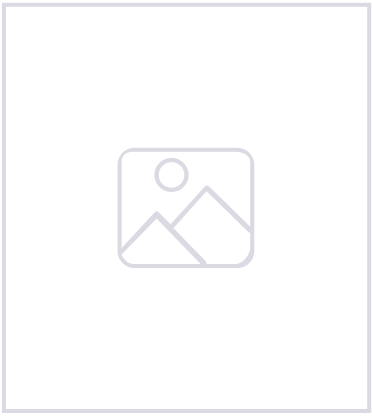
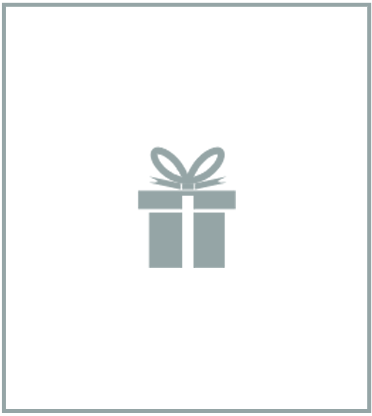
Update Home View & This or That View with high quality images as well as updated the in app browser within the wishlist view
Overall, wishlist tabstrip icon is updated to match related tabstrip icons.

Home View has a new icon (house) which closely represent the starting point of the application.

THis or That View has high resolution version of the add gift item and added item.

Wish List View's Themeable in App Browser now has a close, refresh and (follower's) notification button.

Changed region(s): [[0.0, 0.0, 1.0, 1.0], [0.2957, 0.3438, 0.6801, 0.6562]]

diff --git a/src/mobile/www/app/views/wishlist/wishlist.js b/src/mobile/www/app/views/wishlist/wishlist.js
@@ -196,6 +196,7 @@ function afterWishlistRetailersViewShow(e) {
     kendo.destroy(".fa-shopping-cart");
     $(".fa-shopping-cart").kendoTouch({
         tap: function (evt) {
+            var ref;
             try {
                 /*var ref = window.open('http://www.bestbuy.com/site/disney-interactive-disney-infinity-figure-sorcerers-apprentice-mickey-multi/3650039.p?id=1219092665944&skuId=3650039', '_blank', 'location=no');
                 ref.addEventListener("exit", function(){
@@ -211,7 +212,7 @@ function afterWishlistRetailersViewShow(e) {
                         alert("Are you sure?");
                     }
                 });*/
-                cordova.ThemeableBrowser.open('http://www.bestbuy.com/site/disney-interactive-disney-infinity-figure-sorcerers-apprentice-mickey-multi/3650039.p?id=1219092665944&skuId=3650039', '_blank', {
+                ref = cordova.ThemeableBrowser.open('http://www.bestbuy.com/site/disney-interactive-disney-infinity-figure-sorcerers-apprentice-mickey-multi/3650039.p?id=1219092665944&skuId=3650039', '_blank', {
                     statusbar: {
                         color: '#16a085'
                     },
@@ -236,21 +237,27 @@ function afterWishlistRetailersViewShow(e) {
                         event: 'forwardPressed'
                     },*/
                     closeButton: {
-                        wwwImage: 'images/x-icon-64.png',
-                        wwwImagePressed: 'images/x-icon-64.png',
-                        wwwImageDensity: 2,
+                        image: 'close',
+                        //wwwImagePressed: 'images/x-icon-64.png',
+                        //wwwImageDensity: 2,
                         align: 'left',
                         event: 'closePressed'
-                    }/*,
+                    },
                     customButtons: [
                         {
-                            image: 'share',
-                            imagePressed: 'share_pressed',
+                            image: 'refresh',
+                            //imagePressed: 'share_pressed',
                             align: 'right',
-                            event: 'sharePressed'
+                            event: 'refreshPressed'
+                        },
+                        {
+                            image: 'notify',
+                            //imagePressed: 'share_pressed',
+                            align: 'right',
+                            event: 'notifyPressed'
                         }
                     ],
-                    menu: {
+                    /*menu: {
                         image: 'menu',
                         imagePressed: 'menu_pressed',
                         title: 'Test',
@@ -274,6 +281,21 @@ function afterWishlistRetailersViewShow(e) {
                             "Are you sure?",    // message
                             notificationCallback,                             // callback
                             'Remove from Wishlist',                                  // title
+                            ['Yes','No']                                        // buttonName
+                        );
+                    }
+                    else {
+                        alert("Are you sure?");
+                    }
+                }).addEventListener('refreshPressed', function(e) {
+                    ref.reload();
+                }).addEventListener('notifyPressed', function(e) {
+                    ref.close();
+                    if (navigator.notification) {
+                        navigator.notification.confirm(
+                            'Send to Damola',    // message
+                            notificationCallback,                             // callback
+                            "Gift Notification",                                  // title
                             ['Yes','No']                                        // buttonName
                         );
                     }

diff --git a/src/mobile/www/app/views/thisorthat/thisorthat.html b/src/mobile/www/app/views/thisorthat/thisorthat.html
@@ -62,8 +62,11 @@
                 <div id="#= data.id#-heart-plus-icon-container">
                     <img id="#= data.id#-heart-plus-icon" class="menu svg" src="images/heart_plus_icon.svg" alt="0"/>
                 </div>
-                <a id="#= data.id#-heart-icon" data-role="button" data-icon="heart-like" class="no-border hidden">
-                </a>
+                <!--<a id="#= data.id#-heart-icon" data-role="button" data-icon="heart-like" class="no-border hidden">
+                </a>-->
+                <div id="#= data.id#-heart-icon-container" class="hidden">
+                    <img id="#= data.id#-heart-icon" class="menu svg red" src="images/heart_icon.svg" alt="0"/>
+                </div>
             </div>
         </div>
         <img class="product-image" src="#= data.image#"/>
@@ -109,8 +112,11 @@
                                 <div id="#= data[0].id#-heart-plus-icon-container">
                                     <img id="#= data[0].id#-heart-plus-icon" class="menu svg" src="images/heart_plus_icon.svg" alt="0"/>
                                 </div>
-                                <a id="#= data[0].id#-heart-icon" data-role="button" data-icon="heart-like" class="no-border hidden">
-                                </a>
+                                <!--<a id="#= data[0].id#-heart-icon" data-role="button" data-icon="heart-like" class="no-border hidden">
+                                </a>-->
+                                <div id="#= data[0].id#-heart-icon-container" class="hidden">
+                                    <img id="#= data[0].id#-heart-icon" class="menu svg red" src="images/heart_icon.svg" alt="0"/>
+                                </div>
                             </div>
                             <div class="menu-option side-by-side">
                                 <img id="#= data[0].id#-wishlist-gift-icon" class="menu this plus" src="images/add_gift_icon.png" alt="0"/>
@@ -126,8 +132,11 @@
                                 <div id="#= data[1].id#-heart-plus-icon-container">
                                     <img id="#= data[1].id#-heart-plus-icon" class="menu svg" src="images/heart_plus_icon.svg" alt="1"/>
                                 </div>
-                                <a id="#= data[1].id#-heart-icon" data-role="button" data-icon="heart-like" class="no-border hidden">
-                                </a>
+                                <!--<a id="#= data[1].id#-heart-icon" data-role="button" data-icon="heart-like" class="no-border hidden">
+                                </a>-->
+                                <div id="#= data[1].id#-heart-icon-container" class="hidden">
+                                    <img id="#= data[1].id#-heart-icon" class="menu svg red" src="images/heart_icon.svg" alt="1"/>
+                                </div>
                             </div>
                             <div class="menu-option side-by-side">
                                 <img id="#= data[1].id#-wishlist-gift-icon" class="menu that plus" src="images/add_gift_icon.png" alt="1"/>

diff --git a/src/mobile/www/app/views/home/home.js b/src/mobile/www/app/views/home/home.js
@@ -27,6 +27,7 @@ define([
 var homeShowCounter = 0;
 var itemID, itemName, itemImageSrc, itemCategoryName;
 var cancelBtnTapped = false;
+var addProductElement = null;
 //var productResultsData = "";
 
 /*
@@ -277,6 +278,13 @@ function setProductCategoriesData() {
     
 }
 
+/*
+    Description: Set the eventlistener for the wishlist tab icon
+*/
+/*function setWishListTabIconEventListener() {
+    $().kendoTouch({
+        tap: function (evt) {
+}*/
 
 /*
     Description:
@@ -285,6 +293,8 @@ function setProductCategoriesData() {
 function homeViewInit(e) {
     console.log("home-view init");
     checkLocalCredentials();
+    //set wishlist image event listener
+    //setWishListTabIconEventListener();
     //Set Product Categories
     setProductCategoriesData();
     // Set the data for Upcoming Events
@@ -318,12 +328,26 @@ function setHomeViewProductData(webServiceResponse) {
         APP.instance.view().scroller.reset(); //reset Scroller
         //Add the touch event listener to all product add gift icons
         $.each($("#home-view .product-add"), function (index, element) {
-            element.addEventListener("touchstart", function (evt) {
-                    setSelectedItemInfo($(this).parent().prev().find(".item-name").attr("id"), $(this).parent().prev().find(".item-name").html(), $(this).parent().prev().prev().find(".item-image").attr("src"), $(this).parent().parent().next().find(".item-category").html());
-                    //$("#addItem-actionsheet").data("kendoMobileActionSheet").open();
-                    addToWishlistFrom("#home-view");
-                }, 
-            false);
+            //element.addEventListener("touchstart", function (evt) {
+            //element - touched button content > img
+            console.log($(element));
+            $(element).kendoTouch({
+                tap: function (evt) {
+                    //console.log($(this)[0].element[0]);
+                    //console.log($($(this)[0].element[0]).parent());
+                    if($($(this)[0].element[0]).find("img").attr("src") == "images/add_gift_icon.png") {
+                        setSelectedItemInfo($($(this)[0].element[0]).parent().prev().find(".item-name").attr("id"), $($(this)[0].element[0]).parent().prev().find(".item-name").html(), $($(this)[0].element[0]).parent().prev().prev().find(".item-image").attr("src"), $($(this)[0].element[0]).parent().parent().next().find(".item-category").html());
+                        $($(this)[0].element[0]).find("img").attr("src","images/my_gift_icon.png");
+                        /*addProductElement = $($(this)[0].element[0]).find("img");
+                        setInterval(function(){
+                            addProductElement.attr("src","images/add_gift_icon.png");
+                        }, 1000);*/
+                        //$("#addItem-actionsheet").data("kendoMobileActionSheet").open();
+                        addToWishlistFrom("#home-view");
+                    }
+                }//,
+            });
+            //false);
         });
     }
     else {

diff --git a/src/mobile/www/app/views/thisorthat/thisorthat.js b/src/mobile/www/app/views/thisorthat/thisorthat.js
@@ -243,6 +243,13 @@ function loadProductDetails(data) {
 			likeProduct("thisorthat-products-details-modal", data, true);
 		}
 	});
+	//kendo.unbind("#"+e.data[i].id+"-heart-plus-icon-container");
+	kendo.destroy("#thisorthat-products-details-container #"+data.id+"-heart-icon-container");
+	$("#thisorthat-products-details-container #"+data.id+"-heart-icon-container").kendoTouch({
+		tap: function (evt) {
+			likeProduct("thisorthat-products-details-modal", data, true);
+		}
+	});
 }
 
 /*
@@ -316,8 +323,8 @@ function getViewableProductChange(e){
 			}
 		});
 		//kendo.unbind("#thisorthat-view #"+e.data[i].id+"-heart-icon");
-		kendo.destroy("#thisorthat-view #"+e.data[i].id+"-heart-icon");
-		$("#thisorthat-view #"+e.data[i].id+"-heart-icon").kendoTouch({
+		kendo.destroy("#thisorthat-view #"+e.data[i].id+"-heart-icon-container");
+		$("#thisorthat-view #"+e.data[i].id+"-heart-icon-container").kendoTouch({
 			tap: function (evt) {
 				//console.log($("#"+$(this)[0].element.context.id).parent().parent().next().attr("alt"));
 				if ($("#"+$(this)[0].element.context.id).parent().parent().next().attr("alt") === "0") {
@@ -407,20 +414,22 @@ function setTortScrollViewData(webServiceResponse) {
 	Find next row with Heart icon
 */
 function likeProduct(viewId, data, status){
-	var tempClass = "menu svg";
+	// var tempClass = "menu svg";
 	if (status === true) {
 		console.log("Likes "+data.id+" "+data.name);
-		$("#"+viewId+" #"+data.id+"-heart-icon").removeClass("hidden");
+		$("#"+viewId+" #"+data.id+"-heart-icon-container").removeClass("hidden");
+		$("#"+viewId+" #"+data.id+"-heart-icon-container svg path").addClass("fill-red");
 		$("#"+viewId+" #"+data.id+"-heart-plus-icon-container").addClass("hidden");
 		$("#"+viewId+" #"+data.id+"-heart-plus-icon-container").parent().addClass("border-red");
-		$("#"+viewId+" #"+data.id+"-likes span").attr("style", "color: red !important;");
+		//$("#"+viewId+" #"+data.id+"-likes span").attr("style", "color: red !important;");
 	}
 	else if (status === false) {
 		console.log("Dislikes "+ data.name);
-		$("#"+viewId+" #"+data.id+"-heart-icon").addClass("hidden");
+		$("#"+viewId+" #"+data.id+"-heart-icon-container").addClass("hidden");
+		$("#"+viewId+" #"+data.id+"-heart-icon-container svg path").removeClass("fill-red");
 		$("#"+viewId+" #"+data.id+"-heart-plus-icon-container").removeClass("hidden");
 		$("#"+viewId+" #"+data.id+"-heart-plus-icon-container").parent().removeClass("border-red");
-		$("#"+viewId+" #"+data.id+"-likes span").attr("style", "");
+		//$("#"+viewId+" #"+data.id+"-likes span").attr("style", "");
 	}
 }
 

diff --git a/src/mobile/www/css/main.css b/src/mobile/www/css/main.css
@@ -84,6 +84,12 @@ a.km-button.km-state-active {
 	background-size: 100% 100% !important;
 }
 
+.km-state-active>.km-custom-wish-list {
+    background-image: url("../images/wishlist_icon_active.png");
+	-webkit-background-clip: border-box !important;
+	background-size: 100% 100% !important;
+}
+
 #addItem-actionsheet a , #tort-addItem-actionsheet a{
 	color: #16a085 !important; /*Green Sea*/
 }
@@ -357,6 +363,9 @@ pre {
 .border-red {
 	border-color: red;
 }
+.fill-red {
+	fill: red !important;
+}
 
 .border-green {
 	border-color: #16a085;
@@ -409,6 +418,11 @@ pre {
 
 .menu path, .best-price {
     fill: #7f8c8d;
+}
+
+.red path {
+	fill: red !important;
+	stroke: red !important;
 }
 
 #thisorthat-scrollview {
@@ -861,15 +875,20 @@ input.error-placeholder::-webkit-input-placeholder {
 	width: 15%;
 }
 
-.product-add, .shares-wishlist {
+.shares-wishlist {
+	/*For font icon*/
 	font-size: 3em !important;
 }
 
-.product-add {
+.product-add img {
+	width: 3em !important;
+}
+
+/*.product-add {
 	background: -webkit-linear-gradient(#e74c3c 42%, #16a085 36%);
 	-webkit-background-clip: text;
 	-webkit-text-fill-color: transparent;
-}
+}*/
 
 li a {
 	color: black !important;
@@ -970,7 +989,8 @@ li a {
 	display: table !important;
 	width: 30% !important;
 	height: 7em !important;
-	border: 2px dashed #16a085;
+	/*border: 2px dashed #16a085;*/
+	border: 1px solid rgb(213, 213, 213);
 	border-radius:5px;
 	margin: 4px !important;
 	position: relative;

diff --git a/src/mobile/www/index.html b/src/mobile/www/index.html
@@ -53,9 +53,9 @@
         </div>
         <div data-role="footer">
             <div id="tabstrip" class="tabstrip" data-role="tabstrip">
-                <a href="#home-view" data-icon="search">Search</a>
+                <a href="#home-view" data-icon="home">Home</a>
                 <!-- <a name="wishlist-tab" href="#wishlist-view" data-icon="wish-list">Wishlist</a> -->
-                <a name="wishlist-tab" href="#wishlist-view" data-icon="custom-wish-list">Wislist</a>
+                <a name="wishlist-tab" href="#wishlist-view" data-icon="custom-wish-list">Wish List</a>
                 <!-- <a name="wishlist-tab" href="#wishlist-view" data-icon="wish-list">--><!--<img src="images/wishlist_icon.png" />--><!--Wishlist</a> -->
                 <a href="#thisorthat-view"><img src="images/thisorthat_icon.png" /></a>
                 <a href="#shares-view" data-icon="contacts">Shares</a>

diff --git a/src/mobile/www/app/views/home/home.html b/src/mobile/www/app/views/home/home.html
@@ -139,7 +139,7 @@
                 <tr>
                     <td rowspan="2"><img class="item-image" src="#= data.model.items[i].image#"/></td>
                     <td class="item-name-column"><p id="#= data.model.items[i].id#" class="item-name">#= data.model.items[i].name#</p></td>
-                    <td rowspan="2"><a data-role="button" class="icon-gift product-add"></a></td>
+                    <td rowspan="2"><a data-role="button" class="product-add"><img src="images/add_gift_icon.png"/></a></td>
                 </tr>
                 <tr>
                     <td><p class="item-description">#= data.model.items[i].description#</p></td>
